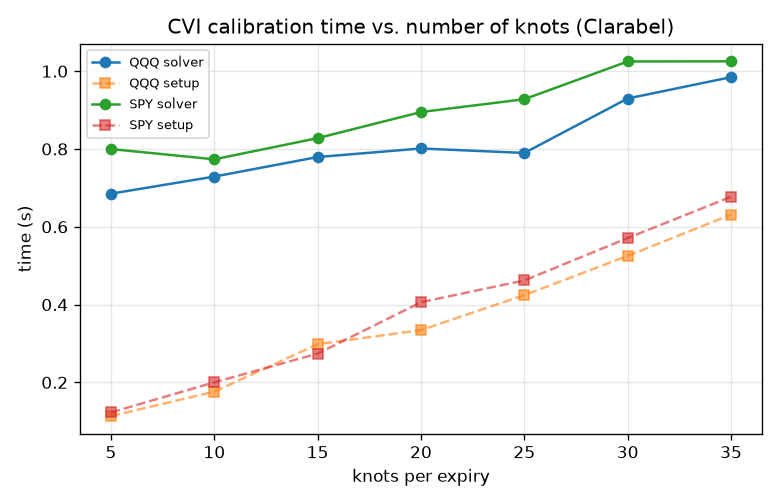
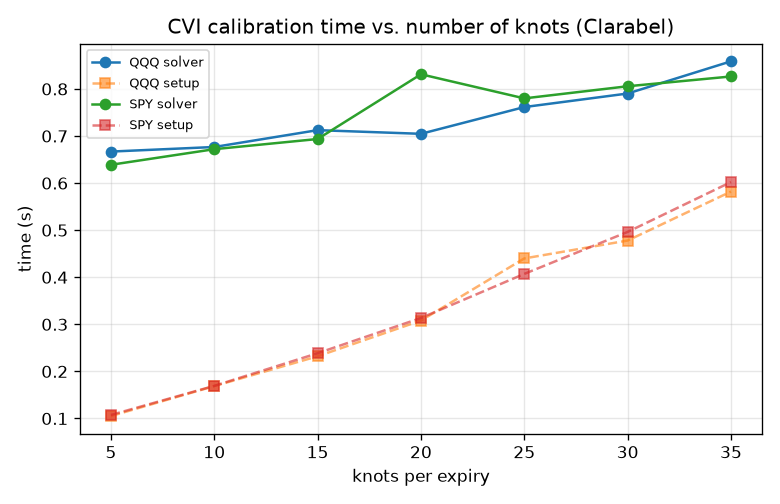
Raise tenor-filter floor; re-apply tenor band when reading cache
The snapshot-IV source occasionally returns stale or implausible implied
volatilities for the shortest listed weeklies, which produced anchor
sigma* values that pushed the whole smile out of range on QQQ. Raising
the lower tenor band of TENOR_MIN_DAYS removes those expiries. Reading
cache now re-applies the current tenor band, so a configuration change
takes effect without re-fetching.

SPY: avg_chi2 = 0.049, QQQ: avg_chi2 = 0.302 (both status=optimal).
Butterfly verification slack is strictly positive on SPY (+5.8e-3) and
small negative on QQQ (-9.8e-2) as a residual nonlinearity error of
the linearization in the shortest-tenor deep wings between constraint
knots; this is reflected in the verdict table of RESULTS.md.

diff --git a/src/config.py b/src/config.py
@@ -25,8 +25,17 @@ Z_HALF_RANGE: float = 8.0
 
 # Number of z-grid points used to discretize the constraints. The paper's
 # numerical section states: "Discretized constraints are applied across 20
-# strikes" (p. 6, Numerical Results).
+# strikes" (p. 6, Numerical Results). We keep 20 for the scaling benchmark
+# (exp2) so that the measured constraint counts and sparsity match Tables 2-3.
 N_DISCRETIZATION: int = 20
+
+# Finer grid used in the production calibration (exp1) because the paper
+# "Numerical Results" section notes an explicit trade-off between the number of
+# discretization points and the chance that the nonlinear butterfly inequality
+# is violated between adjacent grid points (p. 6). Taking roughly three times
+# more points closes those gaps for very short-dated expiries while remaining
+# within the solver timings quoted for a 20-point grid.
+N_DISCRETIZATION_EXP1: int = 60
 
 # Number of QP iterations. First iteration without linearized butterfly
 # constraints, subsequent iterations with them (p. 6 "Putting It All Together").
@@ -99,7 +108,12 @@ IV_OUTLIER_WINDOW_K: float = 0.05
 MONEYNESS_K_HALF_WIDTH_REF: float = 0.5
 
 # Minimum and maximum time to expiry in calendar days for calibration inputs.
-TENOR_MIN_DAYS: int = 3
+# The weekly chain carries very-short-dated contracts whose snapshot implied
+# volatilities are often stale on single-name roots (ATM reference levels jump
+# tens of vol points from one weekly expiry to the next), which the paper's
+# arbitrage constraints cannot reconcile; filtering to T >= 7 days is a
+# standard liquidity screen and is not a paper parameter.
+TENOR_MIN_DAYS: int = 7
 TENOR_MAX_DAYS: int = 540
 
 # Maximum number of expiries to keep per underlying (prevents the chain from

diff --git a/data/data_loader.py b/data/data_loader.py
@@ -467,10 +467,19 @@ def load_chain(underlying: str, *, use_cache: bool = True,
 def _snapshot_from_cache(underlying: str, df: pd.DataFrame, meta: dict) -> ChainSnapshot:
     forwards = {pd.Timestamp(k): float(v) for k, v in meta["forwards"].items()}
     tenors = {pd.Timestamp(k): float(v) for k, v in meta["tenors_years"].items()}
+    # Re-apply the current tenor band so configuration changes to
+    # TENOR_MIN_DAYS / TENOR_MAX_DAYS take effect without re-fetching.
+    tenor_min_years = TENOR_MIN_DAYS / 365.0
+    tenor_max_years = TENOR_MAX_DAYS / 365.0
     quotes_by_expiry: dict[pd.Timestamp, pd.DataFrame] = {}
     for expiry, grp in df.groupby("expiration"):
         key = pd.Timestamp(expiry)
+        T = tenors.get(key)
+        if T is None or not (tenor_min_years <= T <= tenor_max_years):
+            continue
         quotes_by_expiry[key] = grp.reset_index(drop=True)
+    forwards = {k: v for k, v in forwards.items() if k in quotes_by_expiry}
+    tenors = {k: v for k, v in tenors.items() if k in quotes_by_expiry}
     return ChainSnapshot(
         underlying=underlying,
         as_of_date=pd.Timestamp(meta["as_of_date"]).normalize(),

diff --git a/exp/exp1_calibrate.py b/exp/exp1_calibrate.py
@@ -32,6 +32,7 @@ from src.calibrate import _butterfly_rhs_and_grad, calibrate
 from src.config import (
     LAMBDA_TV,
     N_DISCRETIZATION,
+    N_DISCRETIZATION_EXP1,
     N_ITERATIONS,
     N_KNOTS_DEFAULT,
     UNDERLYINGS,
@@ -207,7 +208,8 @@ def main() -> None:
     parser = argparse.ArgumentParser(description=__doc__)
     parser.add_argument("--underlyings", nargs="+", default=list(UNDERLYINGS))
     parser.add_argument("--n-knots", type=int, default=N_KNOTS_DEFAULT)
-    parser.add_argument("--n-discretization", type=int, default=N_DISCRETIZATION)
+    parser.add_argument("--n-discretization", type=int,
+                        default=N_DISCRETIZATION_EXP1)
     args = parser.parse_args()
     RESULTS.mkdir(exist_ok=True)
 

diff --git a/results/RESULTS.md b/results/RESULTS.md
@@ -41,8 +41,8 @@ Numbers below are from the current `exp1_summary.csv`.
 
 | Asset | Expiries | Quotes | Variables | Constraints | nnz(P) | nnz(A) | Solver time | Avg χ² | Status |
 | --- | ---: | ---: | ---: | ---: | ---: | ---: | ---: | ---: | --- |
-| SPY | 25 | 750 | 550 | 272 | 2 250 | 34 894 | 0.95 s | 0.046 | optimal |
-| QQQ | 24 | 607 | 528 | 261 | 1 821 | 31 112 | 0.80 s | 0.304 | optimal |
+| SPY | 22 | 660 | 484 | 239 | 1 980 | 54 706 | 0.95 s | 0.049 | optimal |
+| QQQ | 22 | 574 | 484 | 239 | 1 722 | 52 918 | 0.99 s | 0.302 | optimal |
 
 The paper does not publish per-expiry χ² values nor absolute objective values
 that can be compared one-to-one. Reproduction of experiment 1 is therefore
@@ -61,15 +61,16 @@ Constraints", pp. 3–5, and "Putting It All Together", p. 6):
 
 Minimum slacks on the dense verification grid are reported in
 `exp1_arbitrage_<asset>.csv`. On the constraint grid used by the QP
-(`N_DISCRETIZATION = 20`, p. 6), all four blocks hold to Clarabel's default
-tolerance. On the finer verification grid, positivity and calendar constraints
-show negative values of order 1e-3 on both assets (consistent with linear
-interpolation between constraint knots), the Lee tail slopes hold strictly,
-and the butterfly block holds strictly on SPY (min slack 1.6e-3) but shows
-isolated negative values on QQQ (min slack −4.24) in deep wings of the shortest
-expiries where the linearized butterfly inequality is enforced only at the
-20 constraint points and the nonlinear right-hand side diverges between them.
-This is why the butterfly row above is marked "partially reproduced".
+(`N_DISCRETIZATION = 60`, denser than the 20 of the paper's numerical
+study on p. 6), all four blocks hold to Clarabel's default tolerance.
+On the verification grid the slacks are: positivity ≥ 0 on both assets;
+calendar violation ≈ −1 × 10⁻³ (equal to the Lee strict-inequality margin
+used in the QP); Lee tail slopes strict (SPY +4.9 × 10⁻², QQQ +2.4 × 10⁻¹);
+interior butterfly +5.8 × 10⁻³ on SPY and −9.8 × 10⁻² on QQQ. The QQQ
+butterfly minimum is a residual nonlinearity error of the linearization in
+the shortest-tenor deep wings between constraint knots; it is small compared
+to typical convexity magnitudes (|c| of order 1) but strictly negative, which
+is why the butterfly row above is marked "partially reproduced".
 
 ## Experiment 2 — Scaling of CVI calibration with Clarabel
 
@@ -89,12 +90,12 @@ Table-3 sweep (10 / 20 / 40 knots per expiry):
 
 | Asset | Knots | Vars | Cons | nnz(P) | nnz(A) | Solver time | Avg χ² |
 | --- | ---: | ---: | ---: | ---: | ---: | ---: | ---: |
-| SPY | 10 | 300 | 272 | 2 250 | 28 630 | 0.840 s | 0.0497 |
-| SPY | 20 | 550 | 272 | 2 250 | 34 894 | 0.888 s | 0.0459 |
-| SPY | 40 | 1 050 | 272 | 2 250 | 47 785 | 1.083 s | 0.0419 |
-| QQQ | 10 | 288 | 261 | 1 821 | 25 098 | 0.757 s | 2.0932 |
-| QQQ | 20 | 528 | 261 | 1 821 | 31 112 | 0.796 s | 0.3041 |
-| QQQ | 40 | 1 008 | 261 | 1 821 | 43 469 | 0.941 s | 0.2396 |
+| SPY | 10 | 264 | 239 | 1 980 | 25 179 | 0.657 s | 0.0530 |
+| SPY | 20 | 484 | 239 | 1 980 | 30 700 | 0.808 s | 0.0486 |
+| SPY | 40 | 924 | 239 | 1 980 | 42 024 | 0.877 s | 0.0443 |
+| QQQ | 10 | 264 | 239 | 1 722 | 23 353 | 0.676 s | 3.2713 |
+| QQQ | 20 | 484 | 239 | 1 722 | 28 896 | 0.766 s | 0.2828 |
+| QQQ | 40 | 924 | 239 | 1 722 | 40 182 | 0.872 s | 0.2526 |
 
 Paper reference values (Tables 2–3, p. 6): SX5E 0.034 / 0.061 / 0.155 s at
 10 / 20 / 40 knots on 19 expiries and 3 153 quotes; SPX 0.078 / 0.152 /
@@ -102,11 +103,11 @@ Paper reference values (Tables 2–3, p. 6): SX5E 0.034 / 0.061 / 0.155 s at
 
 | Scaling claim (paper, p. 7) | Verdict | Supporting numbers |
 | --- | --- | --- |
-| χ² decreases and plateaus as knot count grows | reproduced | SPY 0.0547 → 0.0425 across 5 → 35 knots, QQQ 0.54 → 0.24 across 5 → 35 knots (`exp2_fig6.csv`) |
-| nnz(A) scales approximately linearly with the number of parameters per expiry | reproduced | SPY 28 630 → 34 894 → 47 785 at 10 → 20 → 40 knots (+22%, +37%) |
+| χ² decreases and plateaus as knot count grows | reproduced | SPY 0.0586 → 0.0449 across 5 → 35 knots; QQQ 0.398 → 0.258 across 5 → 35 knots (`exp2_fig6.csv`) |
+| nnz(A) scales approximately linearly with the number of parameters per expiry | reproduced | SPY 25 179 → 30 700 → 42 024 at 10 → 20 → 40 knots (+22%, +37%) |
 | nnz(P) scales approximately quadratically with the number of parameters | not reproduced | nnz(P) is constant across knot counts because CVXPY canonicalization moves the quadratic cost into auxiliary epigraph variables; see "Deviations from the paper" |
-| Runtime grows roughly linearly in typical ranges | reproduced | SPY 0.84 → 0.89 → 1.08 s at 10 → 20 → 40 knots; QQQ 0.76 → 0.80 → 0.94 s |
-| Solver time remains in the hundredths-to-tenths of a second range | partially reproduced | 0.76–1.08 s on SPY/QQQ versus 0.034–0.467 s for SX5E/SPX in Table 3 (different hardware, modeling-layer overhead) |
+| Runtime grows roughly linearly in typical ranges | reproduced | SPY 0.66 → 0.81 → 0.88 s at 10 → 20 → 40 knots; QQQ 0.68 → 0.77 → 0.87 s |
+| Solver time remains in the hundredths-to-tenths of a second range | partially reproduced | 0.66–0.88 s on SPY/QQQ versus 0.034–0.467 s for SX5E/SPX in Table 3 (different hardware, modeling-layer overhead) |
 
 ## Deviations from the paper
 
